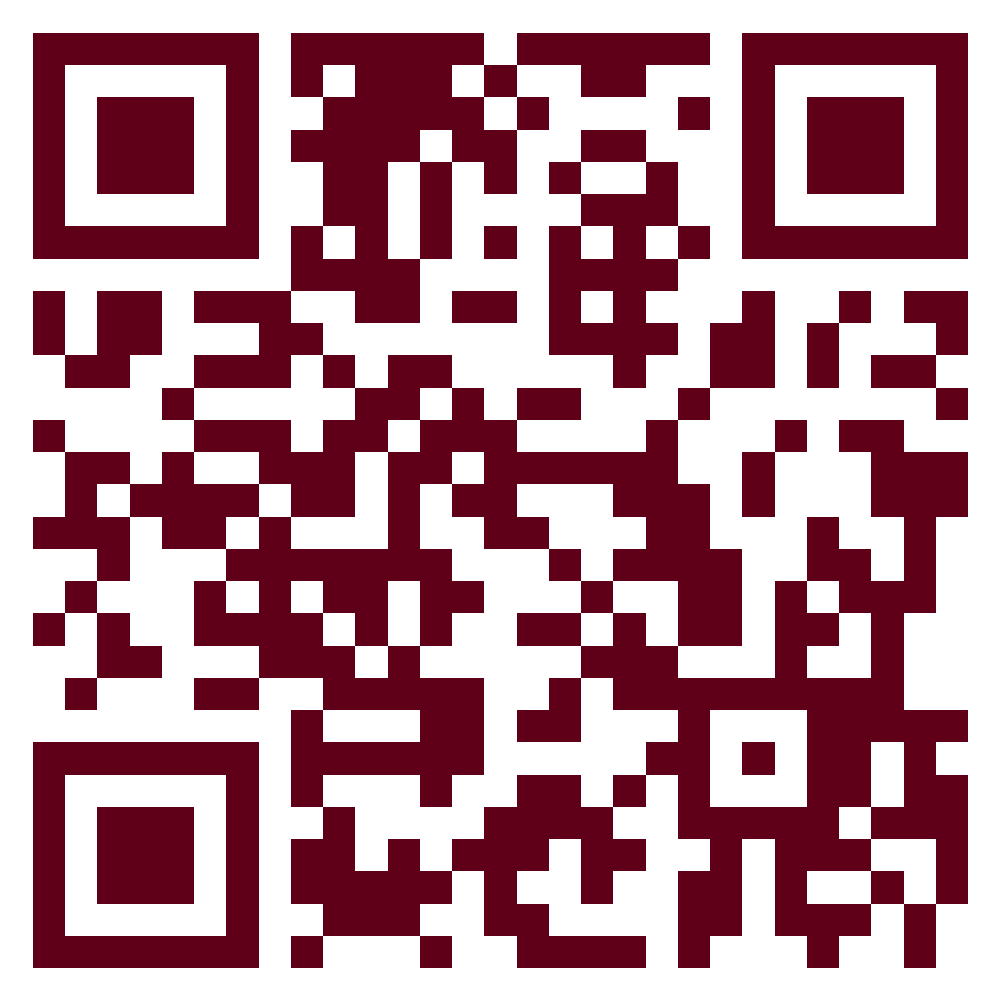
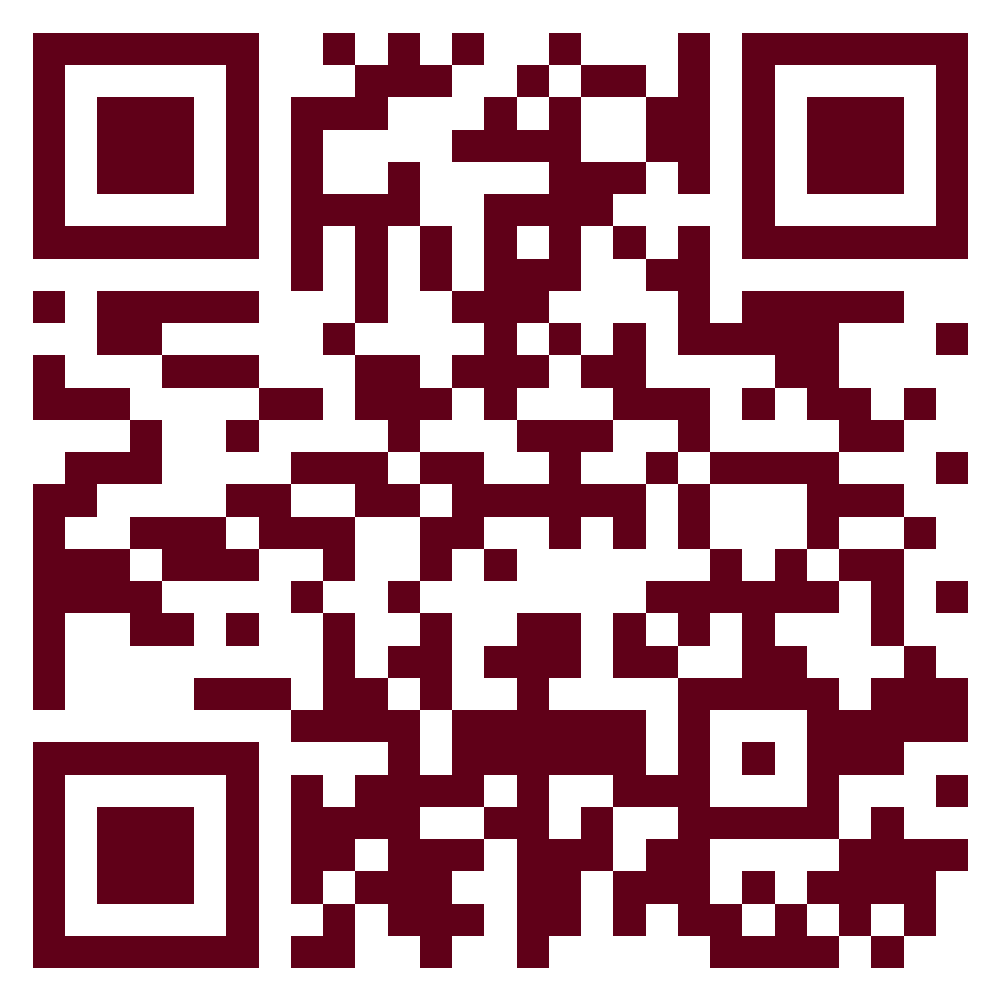
feat(marketing): QR d'avis officiel, textes a copier, corrections arabes
- render-affiches.js utilise le lien "Demander des avis" officiel fourni par
  Dr Aziz (g.page/r/.../review), qui ouvre directement la fenetre de depot
  d'avis. L'ancien lien Maps n'ouvrait que la fiche.
- Document "Textes des publications" : les 18 legendes fr et ar a copier-coller.
  Genere localement par build-livraison.js (HTML, le copier-coller de l'arabe y
  reste fidele) et cree comme Google Doc via textes-pour-drive.js.
  Le guide de publication y renvoyait sans qu'il existe.
- Post du 20 octobre : "تحدثوا إليه في زيارتكم المقبلة" se lisait comme une
  visite AU LABORATOIRE ; devenu "خلال استشارتكم الطبية المقبلة". Et
  "كل تحليل بيولوجي" (calque) devenu "كل التحاليل الطبية".

diff --git a/marketing/scripts/build-livraison.js b/marketing/scripts/build-livraison.js
@@ -32,6 +32,63 @@ const COPIES = [
     : []),
 ];
 
+const esc = (s) => String(s).replace(/&/g, "&amp;").replace(/</g, "&lt;").replace(/>/g, "&gt;");
+
+/**
+ * Document des textes à copier-coller : une page qui s'ouvre dans le navigateur,
+ * chaque publication avec sa légende française et arabe et ses hashtags.
+ * En HTML plutôt qu'en PDF : le copier-coller de l'arabe y reste fidèle.
+ */
+function ecrireTextes() {
+  const data = JSON.parse(fs.readFileSync(path.join(ROOT, "content", "2026-09", "posts.json"), "utf8"));
+  const MOIS = ["janvier", "février", "mars", "avril", "mai", "juin", "juillet", "août", "septembre", "octobre", "novembre", "décembre"];
+
+  const blocs = data.posts
+    .map((p, i) => {
+      const d = new Date(p.date + "T12:00:00Z");
+      const date = `${d.getUTCDate()} ${MOIS[d.getUTCMonth()]}`;
+      const bloc = (lang) => {
+        const l = p[lang];
+        const texte = `${l.caption}\n\n${(l.hashtags || []).join(" ")}`;
+        return `<div class="col"${lang === "ar" ? ' dir="rtl"' : ""}>
+        <h4>${lang === "fr" ? "Version française" : "النسخة العربية"}</h4>
+        <p class="fichier">${esc(p.slug)}-${lang}.png &nbsp;·&nbsp; ${esc(p.slug)}-${lang}-story.png</p>
+        <pre>${esc(texte)}</pre>
+      </div>`;
+      };
+      return `<section>
+      <h3><span class="num">${i + 1}</span> ${esc(date)} — ${esc(p.fr.title)}${p.risk === "orange" ? ' <em class="relire">relecture conseillée</em>' : ""}</h3>
+      <div class="pair">${bloc("fr")}${bloc("ar")}</div>
+    </section>`;
+    })
+    .join("\n");
+
+  const html = `<!DOCTYPE html><html lang="fr"><head><meta charset="utf-8">
+<title>Textes des publications — Laboratoire El Allali</title>
+<style>
+  body { font-family:"Segoe UI",system-ui,sans-serif; color:#2B171D; background:#fff; margin:0; padding:2.5rem 1.5rem 4rem; line-height:1.55; }
+  .sheet { max-width:1000px; margin:0 auto; }
+  h1 { color:#800020; font-size:1.6rem; margin:0 0 .3rem; }
+  .lede { color:#6E5A60; font-size:.95rem; margin:0 0 2rem; }
+  section { margin:0 0 2rem; padding-bottom:1.2rem; border-bottom:1px solid #E9D8DD; }
+  h3 { color:#800020; font-size:1.02rem; margin:0 0 .7rem; display:flex; align-items:center; gap:.5rem; }
+  .num { background:#800020; color:#fff; width:1.6rem; height:1.6rem; border-radius:50%; display:inline-grid; place-items:center; font-size:.82rem; flex:none; }
+  .relire { color:#A05A0B; font-size:.78rem; font-style:normal; font-weight:600; background:#FBF3E6; border-radius:99px; padding:.1rem .55rem; }
+  .pair { display:grid; grid-template-columns:1fr 1fr; gap:1rem; }
+  h4 { font-size:.78rem; text-transform:uppercase; letter-spacing:.08em; color:#FF4081; margin:0 0 .25rem; }
+  .fichier { font-size:.76rem; color:#6E5A60; margin:0 0 .4rem; }
+  pre { white-space:pre-wrap; background:#FAF3F5; border:1px solid #E9D8DD; border-radius:6px; padding:.7rem .9rem; font-family:inherit; font-size:.9rem; margin:0; }
+  @media (max-width:760px) { .pair { grid-template-columns:1fr; } }
+</style></head><body><div class="sheet">
+<h1>Textes des publications — septembre et octobre 2026</h1>
+<p class="lede">Pour chaque publication : le texte à coller sous l'image, en français et en arabe, avec les hashtags. Sélectionnez le texte, copiez-le (Ctrl+C) et collez-le dans Facebook ou Instagram. Publiez la version française et la version arabe séparément.</p>
+${blocs}
+</div></body></html>`;
+
+  fs.writeFileSync(path.join(OUT, "Textes des publications.html"), html, "utf8");
+  console.log(`TXT  Textes des publications.html — ${data.posts.length} publications`);
+}
+
 (async () => {
   fs.rmSync(OUT, { recursive: true, force: true });
   fs.mkdirSync(OUT, { recursive: true });
@@ -57,6 +114,8 @@ const COPIES = [
     console.log(`PDF  ${doc.nom}`);
   }
   await browser.close();
+
+  ecrireTextes();
 
   for (const c of COPIES) {
     if (!fs.existsSync(c.from)) {

diff --git a/marketing/scripts/textes-pour-drive.js b/marketing/scripts/textes-pour-drive.js
@@ -1,0 +1,35 @@
+/**
+ * Produit le corps HTML du document « Textes des publications » destiné à être
+ * créé comme Google Doc (le copier-coller y reste fidèle, arabe compris).
+ * Usage : node marketing/scripts/textes-pour-drive.js
+ */
+const fs = require("fs");
+const path = require("path");
+
+const ROOT = path.resolve(__dirname, "..");
+const MOIS = ["janvier", "février", "mars", "avril", "mai", "juin", "juillet", "août", "septembre", "octobre", "novembre", "décembre"];
+const esc = (s) => String(s).replace(/&/g, "&amp;").replace(/</g, "&lt;").replace(/>/g, "&gt;").replace(/\n/g, "<br>");
+
+const data = JSON.parse(fs.readFileSync(path.join(ROOT, "content", "2026-09", "posts.json"), "utf8"));
+
+const blocs = data.posts
+  .map((p, i) => {
+    const d = new Date(p.date + "T12:00:00Z");
+    const date = `${d.getUTCDate()} ${MOIS[d.getUTCMonth()]}`;
+    const txt = (lang) => `${p[lang].caption}\n\n${(p[lang].hashtags || []).join(" ")}`;
+    return [
+      `<h2>${i + 1}. ${esc(date)} — ${esc(p.fr.title)}${p.risk === "orange" ? " (relecture conseillée)" : ""}</h2>`,
+      `<p><i>Images : ${esc(p.slug)}-fr.png · -ar.png · -fr-story.png · -ar-story.png</i></p>`,
+      `<h3>Texte français</h3><p>${esc(txt("fr"))}</p>`,
+      `<h3>النص العربي</h3><p dir="rtl">${esc(txt("ar"))}</p>`,
+    ].join("\n");
+  })
+  .join("\n<hr>\n");
+
+console.log(
+  `<h1>Textes des publications — septembre et octobre 2026</h1>
+<p>Pour chaque publication, le texte à coller sous l'image, en français et en arabe, avec les hashtags. Sélectionnez le texte, copiez-le, collez-le dans Facebook ou Instagram. Publiez la version française et la version arabe séparément, jamais les deux sous la même image.</p>
+<p><i>Laboratoire El Allali — pack de lancement, 18 publications.</i></p>
+<hr>
+${blocs}`
+);

diff --git a/marketing/scripts/render-affiches.js b/marketing/scripts/render-affiches.js
@@ -16,9 +16,9 @@ const OUT = path.join(ROOT, "output", "affiches");
 
 const QRS = [
   { file: "qr-site.png", url: "https://www.laboelallali.com" },
-  // Lien Maps du labo — à remplacer par le lien « demander des avis » exact du
-  // tableau de bord Google Business Profile dès que Dr Aziz le fournit.
-  { file: "qr-avis.png", url: "https://maps.app.goo.gl/NUiSsY2AQjeNHcDeA" },
+  // Lien « Demander des avis » officiel, fourni par Dr Aziz depuis le tableau de
+  // bord de sa fiche Google : il ouvre directement la fenêtre de dépôt d'avis.
+  { file: "qr-avis.png", url: "https://g.page/r/Ce6V_SOBrPJxEAE/review" },
 ];
 
 (async () => {
